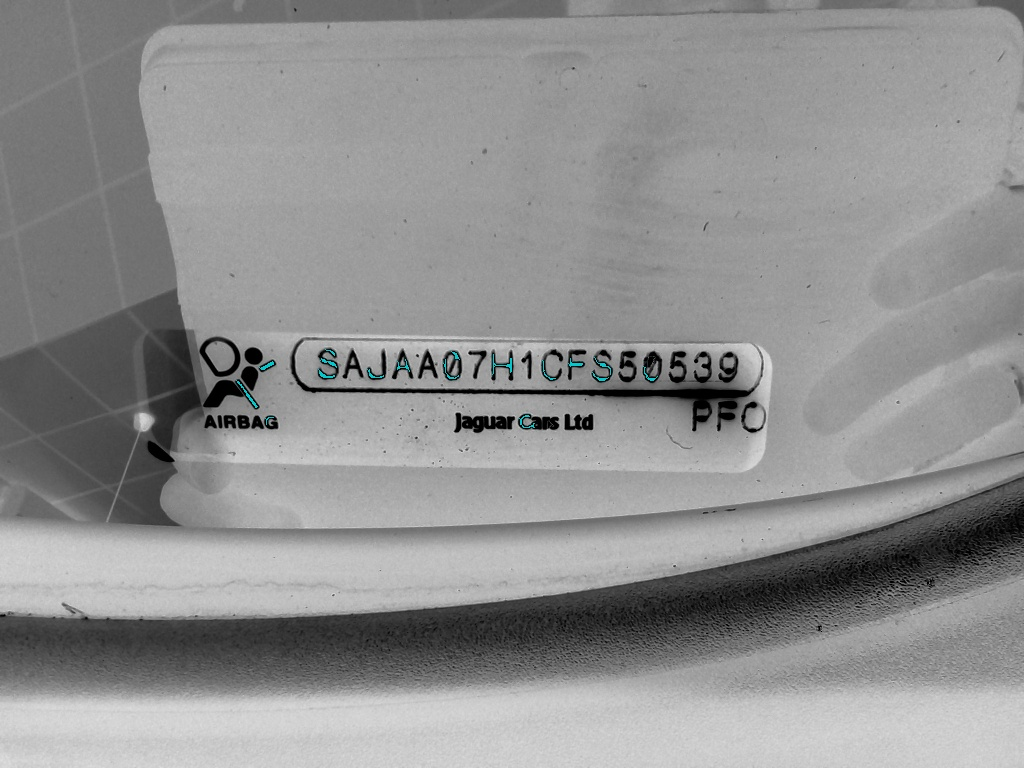
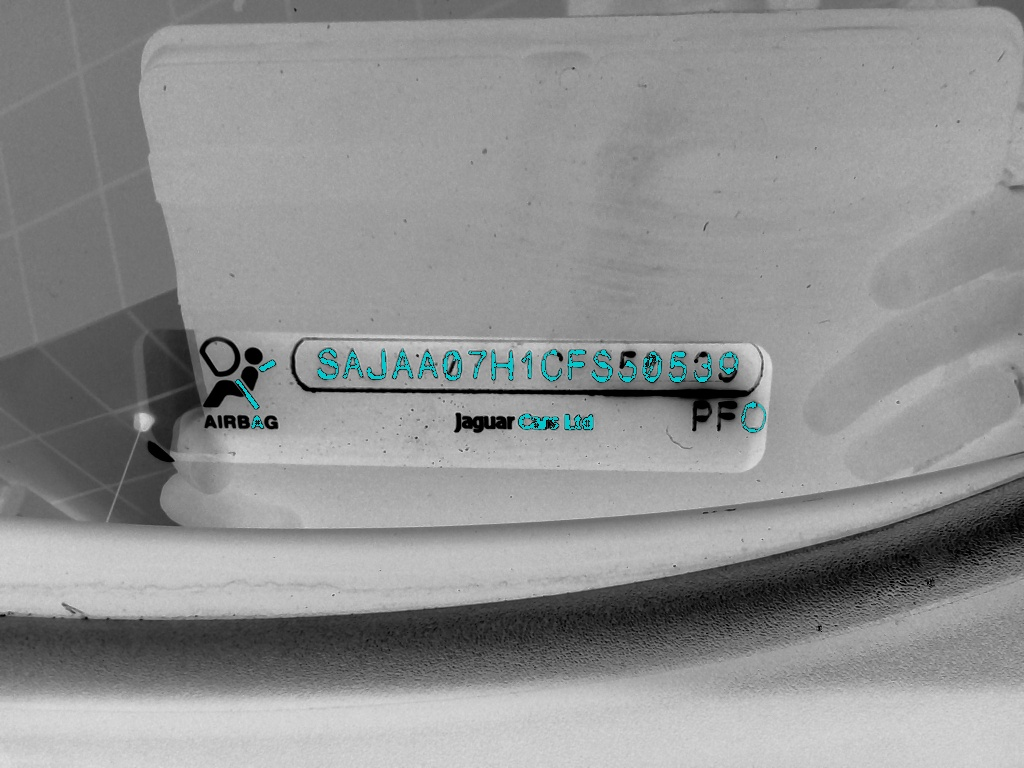
new ver of boundary check

diff --git a/SWT_lite.py b/SWT_lite.py
@@ -110,15 +110,15 @@ def Stroke(image, angles_img, point, dx, dy):
     #if not step:return 
         
     diff = anglediff(oldangle, angle) 
-    new_point = selector.GetPoint()
-    new_point = selector.GetPoint()
     stroke.append(point)
+    new_point = selector.GetPoint()
+    stroke.append(new_point)
+    new_point = selector.GetPoint()
     if point == new_point: return
     point = new_point
     #point = makestep(point, step)
     if not checkbound_sq(point, image):# or mask[point[0], point[1]] == 255:
         return 
-
     i = 0
     #Пока не уткнемся в градиент различающийся с нашим более чем в 30* ползем в направлении step
     #Из-за кривого шага на больших расстояниях дает нехороший результат
